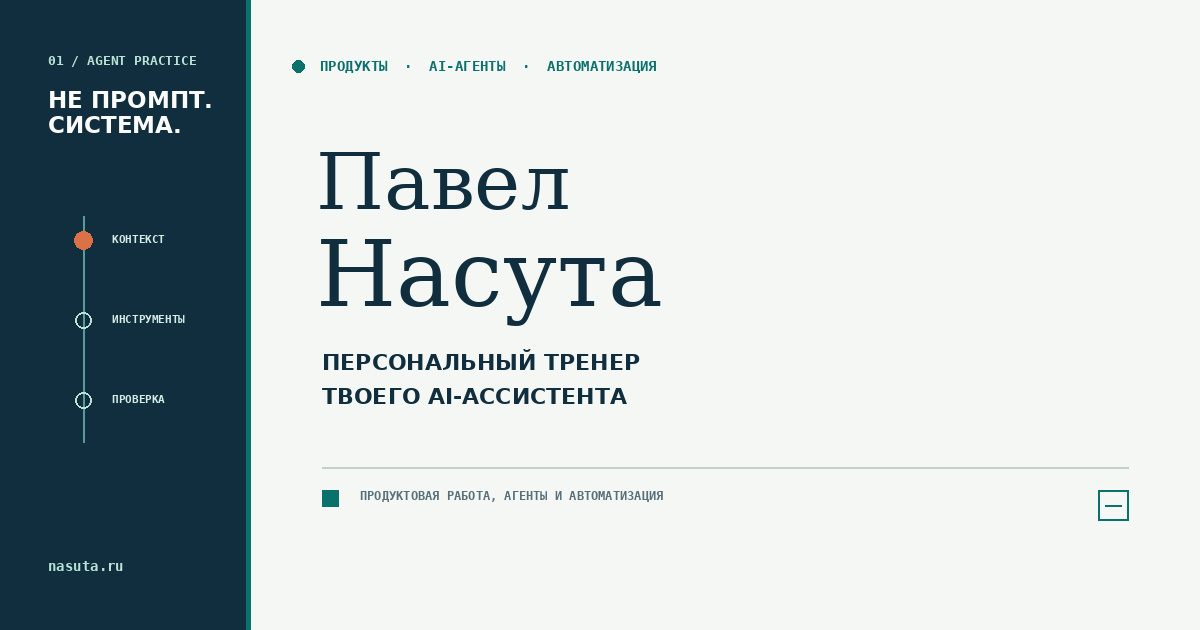
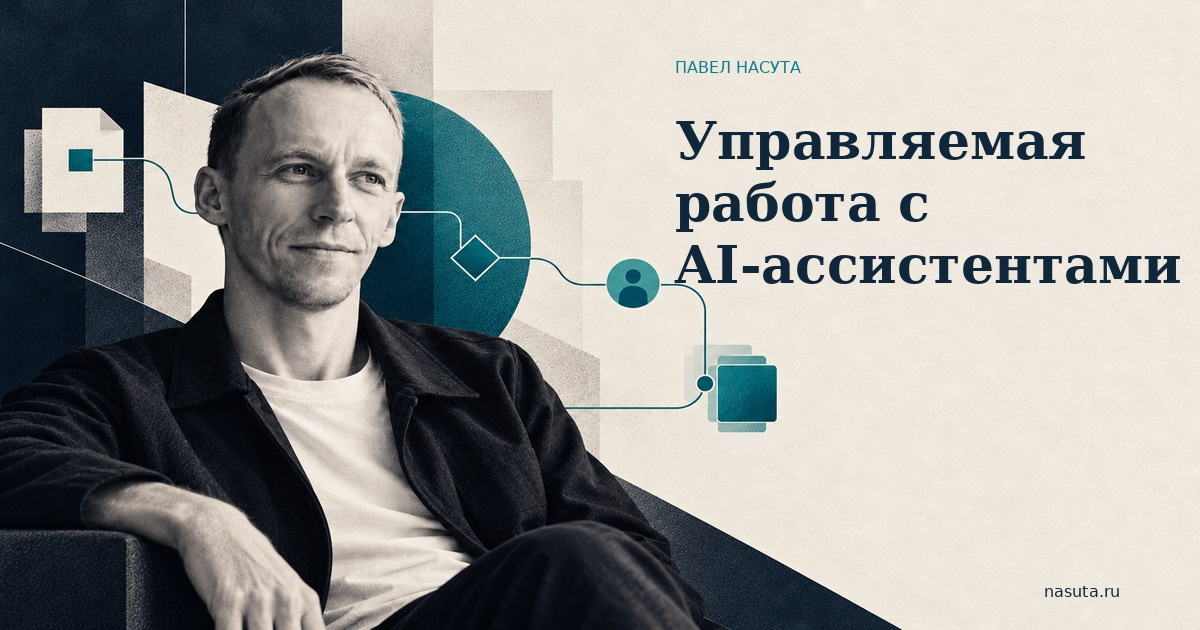
feat: refresh approved home and article OG previews

diff --git a/articles/ai-maturity-in-company/index.html b/articles/ai-maturity-in-company/index.html
@@ -12,16 +12,16 @@
   <meta property="og:title" content="Почему компанию нельзя «сделать AI-native» одним внедрением · Павел Насута">
   <meta property="og:description" content="Рабочая шкала зрелости AI: от личных проб до операционной перестройки, без прыжка в дорогие демонстрации.">
   <meta property="og:url" content="https://nasuta.ru/articles/ai-maturity-in-company/">
-  <meta property="og:image" content="https://nasuta.ru/assets/images/og-pavel-nasuta-agents.jpg">
+  <meta property="og:image" content="https://nasuta.ru/assets/images/og-ai-maturity-in-company.jpg">
   <meta property="og:image:width" content="1200">
   <meta property="og:image:height" content="630">
   <meta property="og:image:alt" content="Почему компанию нельзя «сделать AI-native» одним внедрением · Павел Насута">
   <meta name="twitter:card" content="summary_large_image">
   <meta name="twitter:title" content="Почему компанию нельзя «сделать AI-native» одним внедрением · Павел Насута">
   <meta name="twitter:description" content="Рабочая шкала зрелости AI: от личных проб до операционной перестройки.">
-  <meta name="twitter:image" content="https://nasuta.ru/assets/images/og-pavel-nasuta-agents.jpg">
+  <meta name="twitter:image" content="https://nasuta.ru/assets/images/og-ai-maturity-in-company.jpg">
   <meta name="twitter:image:alt" content="Почему компанию нельзя «сделать AI-native» одним внедрением · Павел Насута">
-  <script type="application/ld+json">{"@context":"https://schema.org","@type":"BlogPosting","@id":"https://nasuta.ru/articles/ai-maturity-in-company/#article","headline":"Почему компанию нельзя «сделать AI-native» одним внедрением","description":"Авторская рабочая шкала зрелости AI для команд и компаний.","image":"https://nasuta.ru/assets/images/og-pavel-nasuta-agents.jpg","author":{"@type":"Person","@id":"https://nasuta.ru/#pavel-nasuta","name":"Павел Насута","url":"https://nasuta.ru/about/"},"datePublished":"2026-11-02","dateModified":"2026-11-02","inLanguage":"ru-RU","mainEntityOfPage":"https://nasuta.ru/articles/ai-maturity-in-company/","isPartOf":{"@id":"https://nasuta.ru/articles/#webpage"}}</script>
+  <script type="application/ld+json">{"@context":"https://schema.org","@type":"BlogPosting","@id":"https://nasuta.ru/articles/ai-maturity-in-company/#article","headline":"Почему компанию нельзя «сделать AI-native» одним внедрением","description":"Авторская рабочая шкала зрелости AI для команд и компаний.","image":"https://nasuta.ru/assets/images/og-ai-maturity-in-company.jpg","author":{"@type":"Person","@id":"https://nasuta.ru/#pavel-nasuta","name":"Павел Насута","url":"https://nasuta.ru/about/"},"datePublished":"2026-11-02","dateModified":"2026-11-02","inLanguage":"ru-RU","mainEntityOfPage":"https://nasuta.ru/articles/ai-maturity-in-company/","isPartOf":{"@id":"https://nasuta.ru/articles/#webpage"}}</script>
   <!-- Yandex.Metrika counter -->
 <script type="text/javascript">
     (function(m,e,t,r,i,k,a){

diff --git a/tests/test_approved_og_previews.py b/tests/test_approved_og_previews.py
@@ -1,0 +1,34 @@
+from pathlib import Path
+import unittest
+from PIL import Image
+
+ROOT = Path(__file__).resolve().parents[1]
+HOME = ROOT / "index.html"
+ARTICLE = ROOT / "articles" / "ai-maturity-in-company" / "index.html"
+HOME_ASSET = ROOT / "assets" / "images" / "og-pavel-nasuta-agents.jpg"
+ARTICLE_ASSET = ROOT / "assets" / "images" / "og-ai-maturity-in-company.jpg"
+
+
+class ApprovedOgPreviewTests(unittest.TestCase):
+    def test_home_uses_approved_personal_preview_asset(self):
+        html = HOME.read_text(encoding="utf-8")
+        url = "https://nasuta.ru/assets/images/og-pavel-nasuta-agents.jpg"
+        self.assertIn(f'property="og:image" content="{url}"', html)
+        self.assertIn(f'name="twitter:image" content="{url}"', html)
+        with Image.open(HOME_ASSET) as image:
+            self.assertEqual(image.size, (1200, 630))
+            self.assertEqual(image.format, "JPEG")
+
+    def test_latest_article_uses_its_own_approved_preview_asset(self):
+        html = ARTICLE.read_text(encoding="utf-8")
+        url = "https://nasuta.ru/assets/images/og-ai-maturity-in-company.jpg"
+        self.assertIn(f'property="og:image" content="{url}"', html)
+        self.assertIn(f'name="twitter:image" content="{url}"', html)
+        self.assertIn(f'"image":"{url}"', html)
+        with Image.open(ARTICLE_ASSET) as image:
+            self.assertEqual(image.size, (1200, 630))
+            self.assertEqual(image.format, "JPEG")
+
+
+if __name__ == "__main__":
+    unittest.main()
